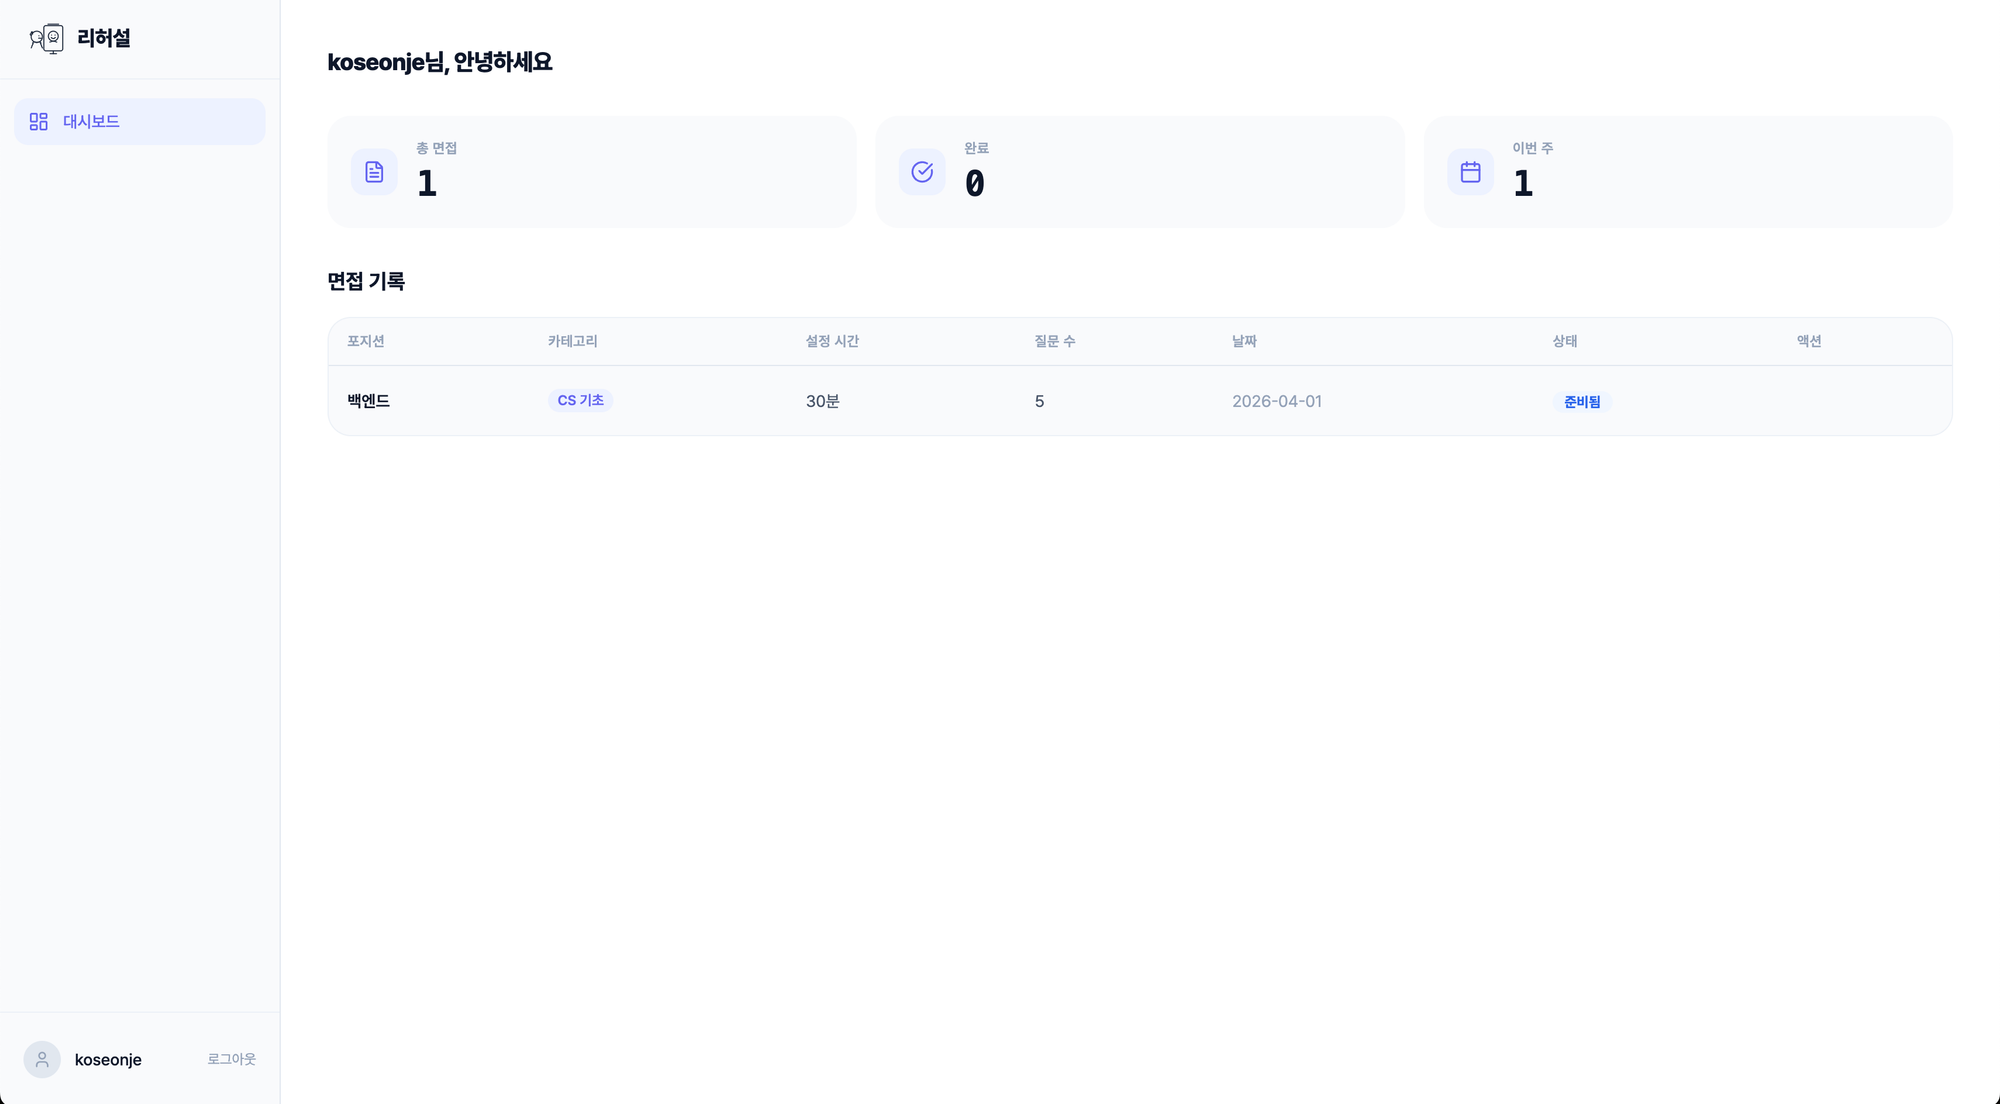
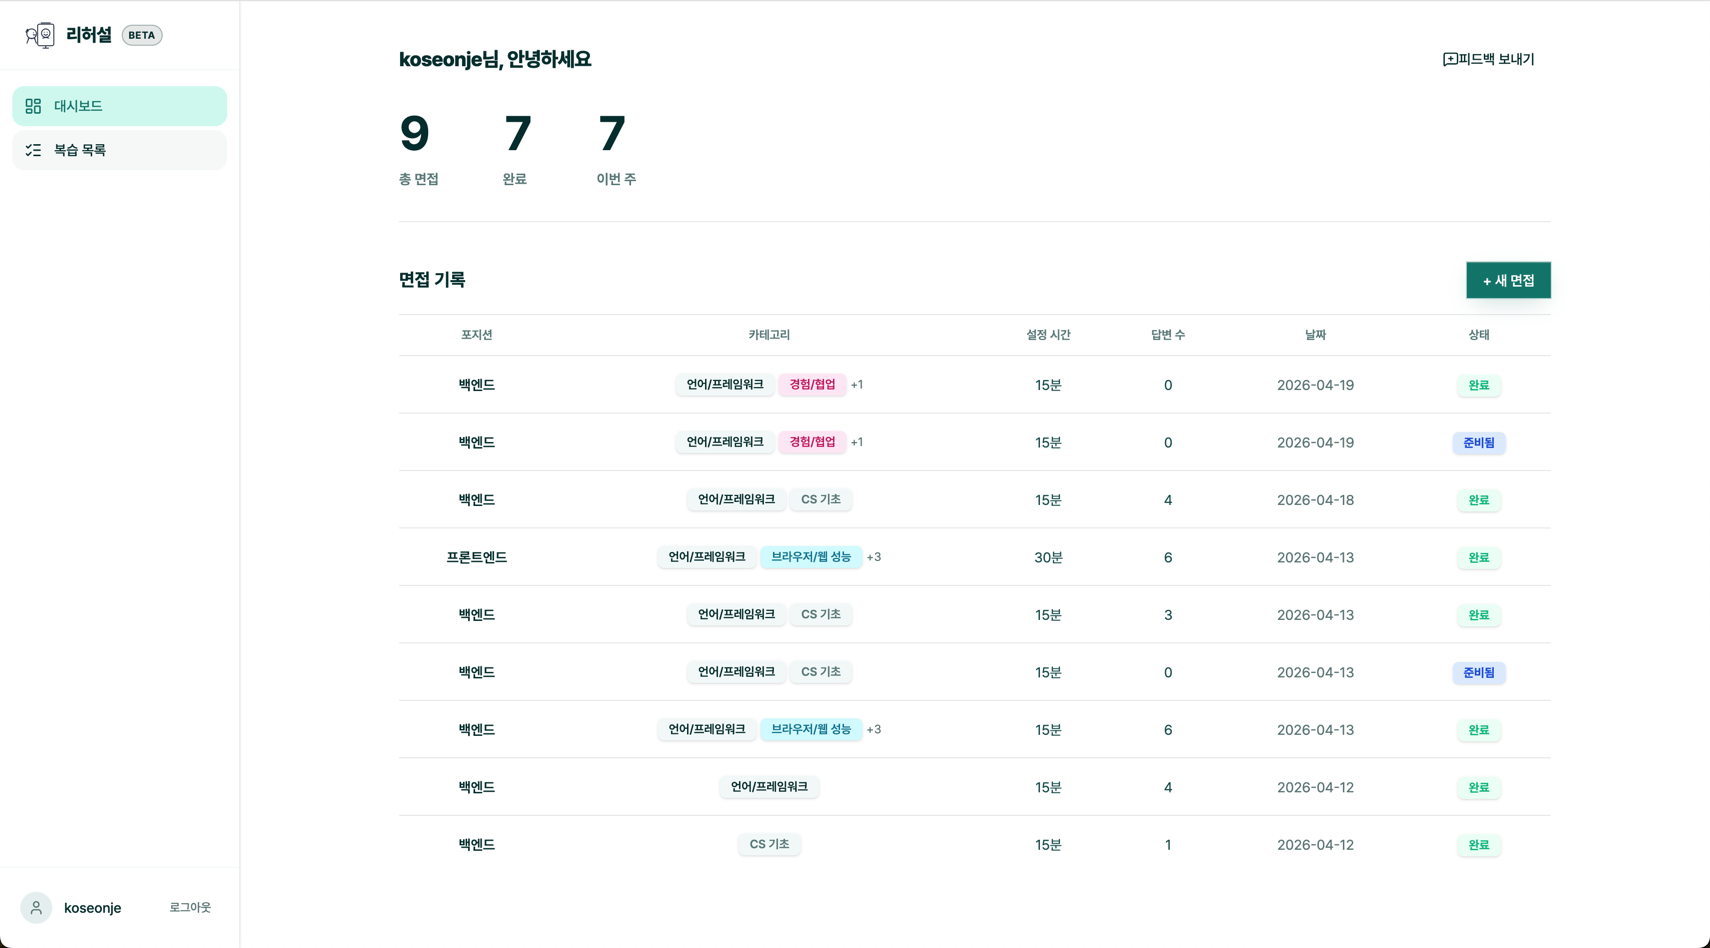
docs: README 스크린샷 최신화 + 사용자 플로우 중심 구조 개편 (#334)
* docs: README 스크린샷 최신화 + 사용자 플로우 중심 구조 개편

- 대시보드/설정/장치 확인/면접 진행/피드백 스크린샷을 최신 UI로 교체
- 면접 진행·피드백 화면의 실제 웹캠 노출 영역을 3D 캐릭터 플레이스홀더로 합성
- Why Rehearse?와 핵심 기능 섹션의 이미지를 제거하고 텍스트만 유지
- 사용자 플로우 섹션의 본문 설명을 새 UI(복습 목록 사이드바, 새 면접 버튼, 5단계 위저드, 언어/비언어 탭 등)에 맞춰 갱신
- 랜딩 히어로 이미지 신규 추가

* chore: CLAUDE.md에 main/develop 직접 push 금지 규칙 추가

브랜치 보호 규칙 및 릴리즈 백머지 필수 절차를 명시해 온보딩 시 혼선 방지.

* docs: 분석 대기 스크린샷을 모범답변 중심 뷰로 교체

새 UI에서는 분석이 백그라운드로 돌아가는 동안 같은 화면에서 모범답변을
바로 보여주고, 완료 시점에 토스트로 알리는 흐름. README 본문도 그에 맞춰
"분석 대기" → "분석 대기 & 모범답변" 섹션으로 재정리.

* docs: 사용자 플로우 섹션을 비즈니스 관점으로 재작성

기술 스택·내부 동작(S3, Lambda, Whisper, PIP, 위저드 단계 등)을 제거하고
사용자가 얻는 경험("맞춤 질문", "기억이 생생할 때 모범답변 확인",
"그 순간 영상을 보며 복기") 관점으로 재작성.

* chore(ci): path filter + required check deadlock 해소

docs-only PR에서 Frontend/Backend CI가 트리거되지 않아
required status check가 영원히 pending으로 남는 문제 해결.

- on.pull_request.paths 제거 → 모든 PR 트리거
- dorny/paths-filter로 내부 조건부 실행 → 무관 변경엔 즉시 success 리포트

Constraint: develop 브랜치 보호가 Frontend CI / Backend CI required
Rejected: required check 제거 | 품질 게이트 약화
Confidence: high
Scope-risk: narrow
Directive: required로 지정된 워크플로우는 paths 필터 대신 내부 조건부 패턴 사용

* chore(ci): job name을 required context와 일치시킴

브랜치 보호 required contexts("Frontend CI"/"Backend CI")와
실제 리포트되는 check name(job name "Lint & Build"/"Test") 불일치로
두 required 체크가 영원히 pending 상태였던 문제 해결.

Constraint: develop required_status_checks = ["Frontend CI", "Backend CI"]
Confidence: high
Scope-risk: narrow

---------

diff --git a/CLAUDE.md b/CLAUDE.md
@@ -72,6 +72,13 @@ devlens/
 - **BE/FE PR 분리 필수**: BE PR 먼저 머지 → FE PR 생성
 - **CI 통과 필수**: `Frontend CI` (lint + build), `Backend CI` (test)
 
+### 직접 push 절대 금지 (Required)
+
+- `main`, `develop`은 **브랜치 보호 규칙으로 직접 push 차단**됨. 모든 변경은 PR 경유.
+- **`main`으로 머지**: `develop → main` 릴리즈 PR로만 가능. feature/fix 브랜치에서 main 직접 PR 금지. 반드시 `/prod-release` 스킬 사용.
+- **`develop`으로 머지**: `feat/*`, `fix/*`, `refactor/*` 브랜치 PR로만 가능. 반드시 `/create-pr` 스킬 사용.
+- 릴리즈 머지 직후 develop은 `main` 머지 커밋이 빠진 상태가 됨 → 다음 릴리즈 PR 생성 전 `git merge origin/main` back-merge 필수.
+
 ---
 
 ## Tech Stack
